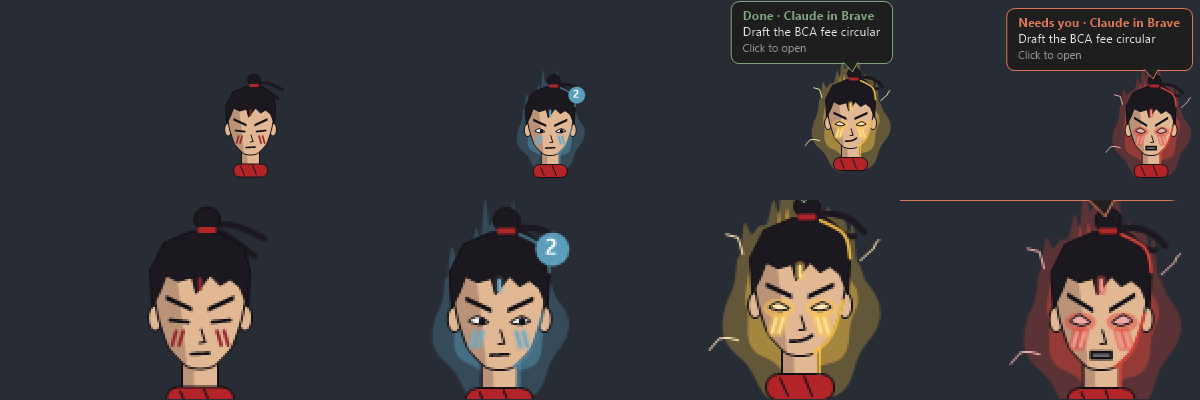
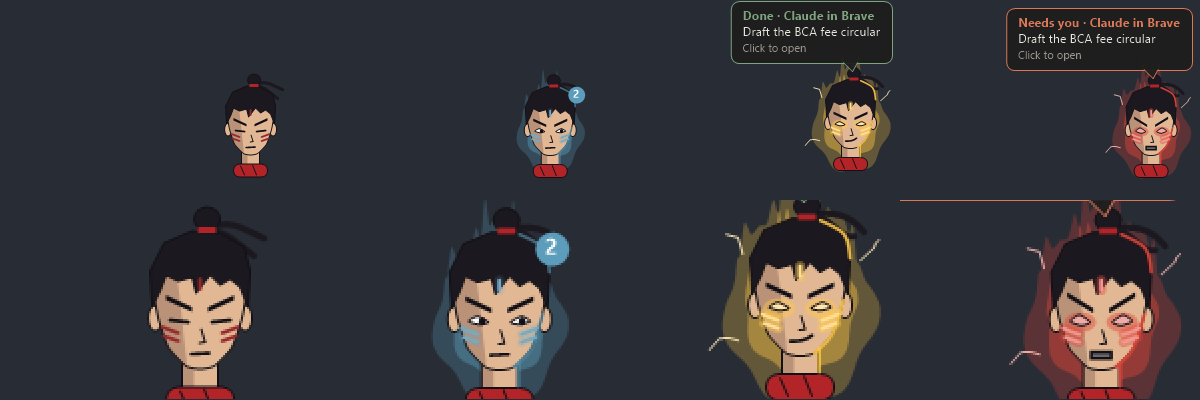
Slash the pet's cheek marks back toward his ears
Drawn straight down from the eyes, the glowing marks read as tears.

diff --git a/desktop/Pet.cs b/desktop/Pet.cs
@@ -401,7 +401,7 @@ public class PetForm : Form
                     g.DrawLine(rim, 9.5f, -39, 9.5f, -27);
                 }
 
-            // War marks: two strokes down each cheek and one on the brow.
+            // War marks: two strokes across each cheekbone and one on the brow.
             // Dark red at rest, lit in the aura's colour once his power is up.
             Color markColour = aura == Color.Empty ? Mark : Blend(aura, Color.White, blazing ? 0.45f : 0.15f);
             if (aura != Color.Empty)
@@ -487,10 +487,12 @@ public class PetForm : Form
 
     static void Marks(Graphics g, Pen p)
     {
-        g.DrawLine(p, -12, -54, -14, -47);
-        g.DrawLine(p, -8.5f, -54, -10.5f, -47);
-        g.DrawLine(p, 12, -54, 14, -47);
-        g.DrawLine(p, 8.5f, -54, 10.5f, -47);
+        // Slashed back along the cheekbones toward the ears. Drawn straight
+        // down from the eyes they read as tears.
+        g.DrawLine(p, -11, -53, -19, -56);
+        g.DrawLine(p, -11, -49, -18, -51.5f);
+        g.DrawLine(p, 11, -53, 19, -56);
+        g.DrawLine(p, 11, -49, 18, -51.5f);
         g.DrawLine(p, 0, -80, 0, -75);
     }
 
